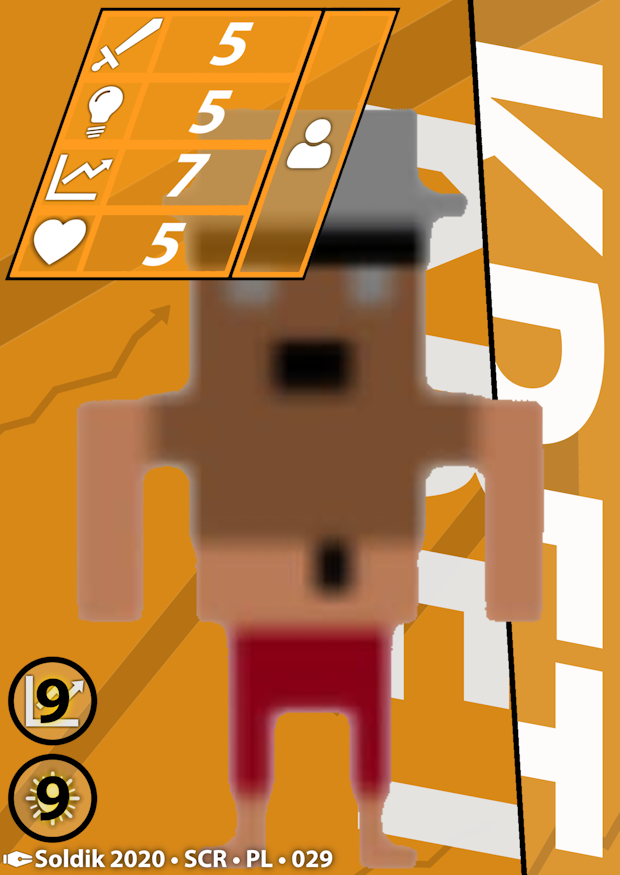
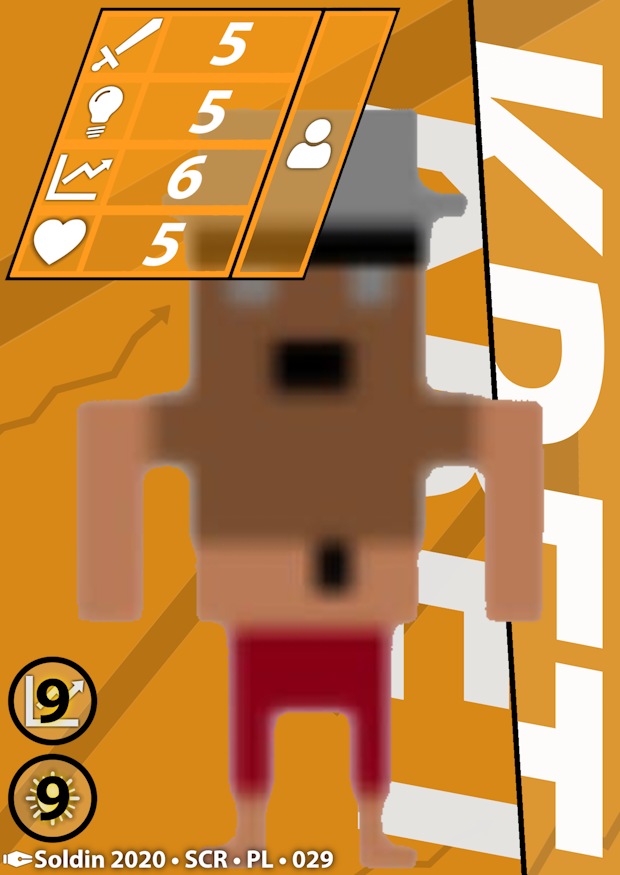
add old "Kret" version to database

diff --git a/karty/card-database/jednostki/29.js b/karty/card-database/jednostki/29.js
@@ -10,7 +10,7 @@ function latest() {
         </p>`;
     const card_stats = `
         <p>
-        5/5/7/5
+        5/5/6/5
         </p>`;
     const card_author = `
         <i>
@@ -27,6 +27,39 @@ function latest() {
     document.getElementById("card_image").src = "../../assets/cards/latest/jednostki/29.webp";
     document.getElementById("card_image").alt = card_title;
     document.getElementById("latest_selector").innerHTML = `&gt;<u>Najnowsza</u>`;
+    document.getElementById("v1_3_0_selector").innerHTML = `<u>v1.3.0</u>`;
+    document.getElementById("alpha_selector").innerHTML = `<u>Alpha</u>`;
+}
+function v1_3_0() {
+    const card_title = "Kret";
+    const site_title = card_title;
+    const card_cost = "9M 9P";
+    const card_cost_info = "9 Many i 9 Popularności";
+    const card_type = "Jednostka";
+    const card_subtype = `
+        <p>
+        Człowiek
+        </p>`;
+    const card_stats = `
+        <p>
+        5/5/7/5
+        </p>`;
+    const card_author = `
+        <i>
+        Ilustracja: Soldin 2020
+        </i>`;
+    document.getElementById("card_title").innerHTML = card_title;
+    document.getElementById("site_title").innerHTML = site_title;
+    document.getElementById("card_cost").innerHTML = card_cost;
+    document.getElementById("card_cost_info").title = card_cost_info;
+    document.getElementById("card_type").innerHTML = card_type;
+    document.getElementById("card_subtype").innerHTML = card_subtype;
+    document.getElementById("card_stats").innerHTML = card_stats;
+    document.getElementById("card_author").innerHTML = card_author;
+    document.getElementById("card_image").src = "../../assets/cards/1.3.0/jednostki/29.webp";
+    document.getElementById("card_image").alt = card_title;
+    document.getElementById("latest_selector").innerHTML = `<u>Najnowsza</u>`;
+    document.getElementById("v1_3_0_selector").innerHTML = `&gt;<u>v1.3.0</u>`;
     document.getElementById("alpha_selector").innerHTML = `<u>Alpha</u>`;
 }
 function alpha() {
@@ -58,6 +91,7 @@ function alpha() {
     document.getElementById("card_image").src = "../../assets/cards/alpha/jednostki/29.webp";
     document.getElementById("card_image").alt = card_title;
     document.getElementById("latest_selector").innerHTML = `<u>Najnowsza</u>`;
+    document.getElementById("v1_3_0_selector").innerHTML = `<u>v1.3.0</u>`;
     document.getElementById("alpha_selector").innerHTML = `&gt;<u>Alpha</u>`;
 }
 document.addEventListener("DOMContentLoaded", latest);

diff --git a/karty/jednostki/29.html b/karty/jednostki/29.html
@@ -103,6 +103,9 @@
                             <a onclick="latest()" id="latest_selector"></a>
                         </p>
                         <p>
+                            <a onclick="v1_3_0()" id="v1_3_0_selector"></a>
+                        </p>
+                        <p>
                             <a onclick="alpha()" id="alpha_selector"></a>
                         </p>
                     </div>
